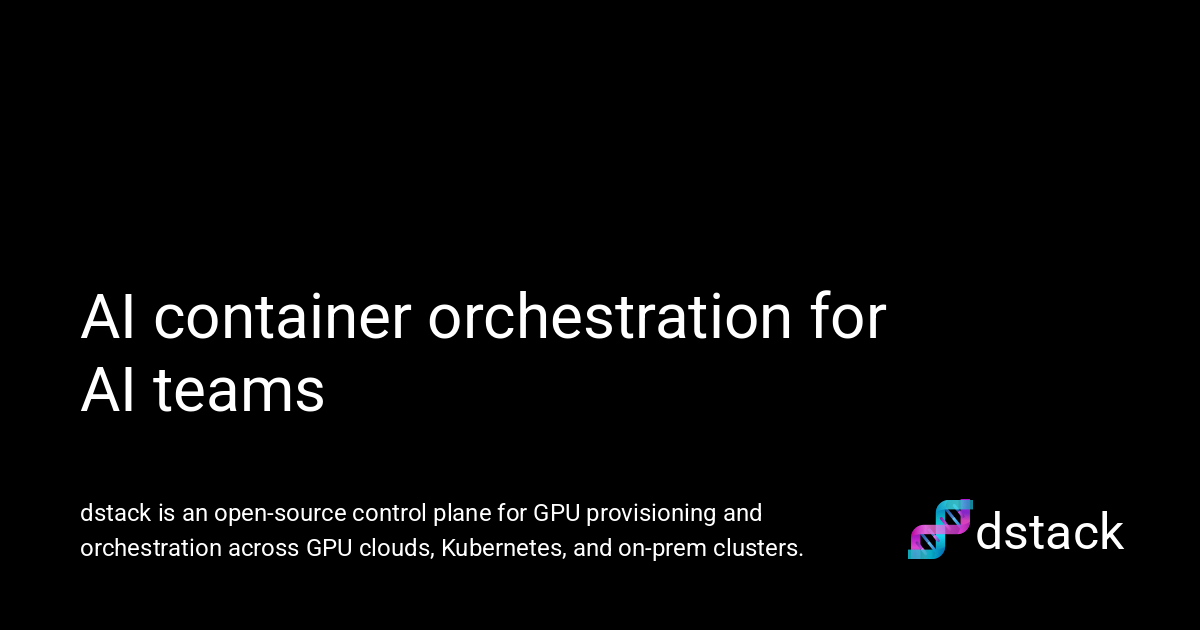
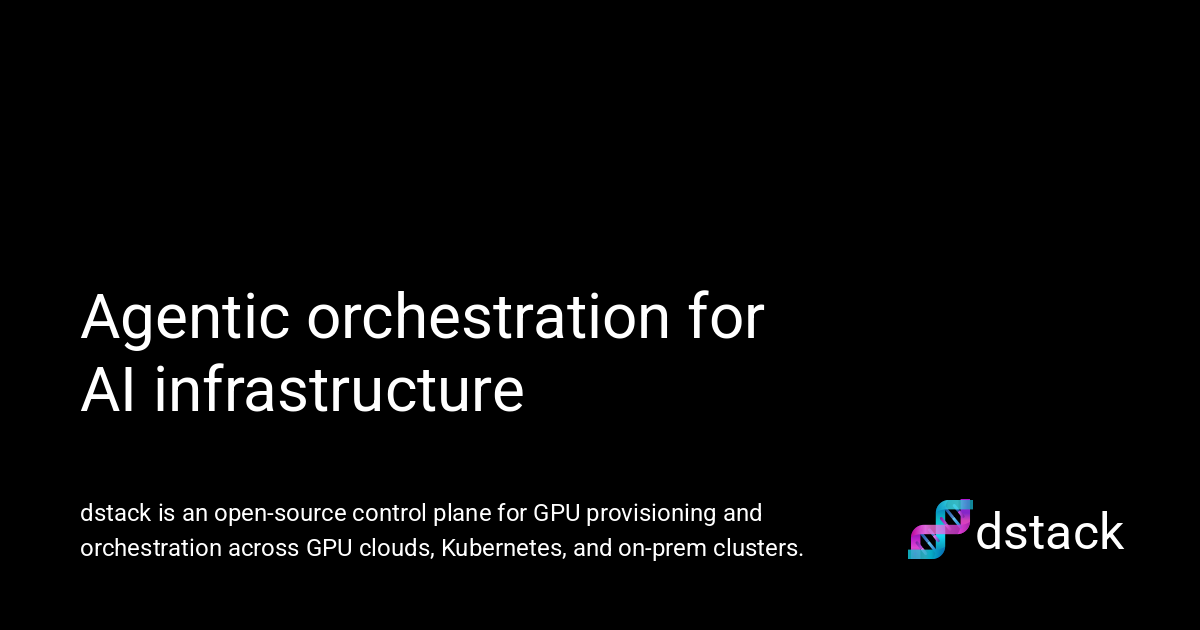
Deploying to gh-pages from @ dstackai/dstack@99590d47d972e0420b433e1c9003b2a8f3f14d77 🚀

Changed region(s): [[0.0925, 0.4524, 0.74, 0.573], [0.1233, 0.573, 0.4317, 0.6635]]

diff --git a/index.html b/index.html
@@ -27,7 +27,7 @@
     
     
       
-        <title>AI container orchestration for AI teams - dstack</title>
+        <title>Agentic orchestration for AI infrastructure - dstack</title>
       
     
     
@@ -120,7 +120,7 @@
 
   
 <meta property="og:type" content="website" />
-<meta property="og:title" content="AI container orchestration for AI teams" />
+<meta property="og:title" content="Agentic orchestration for AI infrastructure" />
 <meta property="og:description" content="dstack is an open-source control plane for GPU provisioning and orchestration across GPU clouds, Kubernetes, and on-prem clusters." />
 <meta property="og:image" content="https://dstack.ai/assets/images/social/index.png" />
 <meta property="og:image:type" content="image/png" />
@@ -128,7 +128,7 @@
 <meta property="og:image:height" content="630" />
 <meta property="og:url" content="https://dstack.ai/" />
 <meta property="twitter:card" content="summary_large_image" />
-<meta property="twitter.title" content="AI container orchestration for AI teams" />
+<meta property="twitter.title" content="Agentic orchestration for AI infrastructure" />
 <meta property="twitter:description" content="dstack is an open-source control plane for GPU provisioning and orchestration across GPU clouds, Kubernetes, and on-prem clusters." />
 <meta property="twitter:image" content="https://dstack.ai/assets/images/social/index.png" />
 </head>
@@ -195,7 +195,7 @@ Infrastructure orchestration is becoming an <a href="/blog/agentic-orchestration
         <div class="md-header__topic" data-md-component="header-topic">
           <span class="md-ellipsis">
             
-              AI container orchestration for AI teams
+              Agentic orchestration for AI infrastructure
             
           </span>
         </div>
@@ -4122,7 +4122,9 @@ Infrastructure orchestration is becoming an <a href="/blog/agentic-orchestration
                 <h1 class="glitch" data-text="Agentic orchestration" style="min-height: 2.4em;">Agentic orchestration<br><span id="typed" style="white-space: nowrap;"></span></h1>
 
                 <p>
-                    <span class="highlight">dstack</span> is an open-source control plane for agents and engineers to provision compute and run training, inference, <!--and sandboxes--> across GPU vendors, clouds, Kubernetes, and bare-metal clusters.
+                    <span class="highlight">dstack</span> is an open-source control plane for agents and engineers to provision compute and run training, inference, and sandboxes across 
+                    <span class="highlight">NVIDIA</span>, <span class="highlight">AMD</span>, 
+                    <span class="highlight">TPU</span>, and <span class="highlight"></span>Tenstorrent</span> GPUs—on clouds, Kubernetes, and bare-metal clusters.
                 </p>
             </div>
 

diff --git a/overrides/home.html b/overrides/home.html
@@ -291,7 +291,9 @@
                 <h1 class="glitch" data-text="Agentic orchestration" style="min-height: 2.4em;">Agentic orchestration<br><span id="typed" style="white-space: nowrap;"></span></h1>
 
                 <p>
-                    <span class="highlight">dstack</span> is an open-source control plane for agents and engineers to provision compute and run training, inference, <!--and sandboxes--> across GPU vendors, clouds, Kubernetes, and bare-metal clusters.
+                    <span class="highlight">dstack</span> is an open-source control plane for agents and engineers to provision compute and run training, inference, and sandboxes across 
+                    <span class="highlight">NVIDIA</span>, <span class="highlight">AMD</span>, 
+                    <span class="highlight">TPU</span>, and <span class="highlight"></span>Tenstorrent</span> GPUs—on clouds, Kubernetes, and bare-metal clusters.
                 </p>
             </div>
 

diff --git a/index.md b/index.md
@@ -1,6 +1,6 @@
 ---
 template: home.html
-title: AI container orchestration for AI teams
+title: Agentic orchestration for AI infrastructure
 hide:
    - navigation
    - toc
